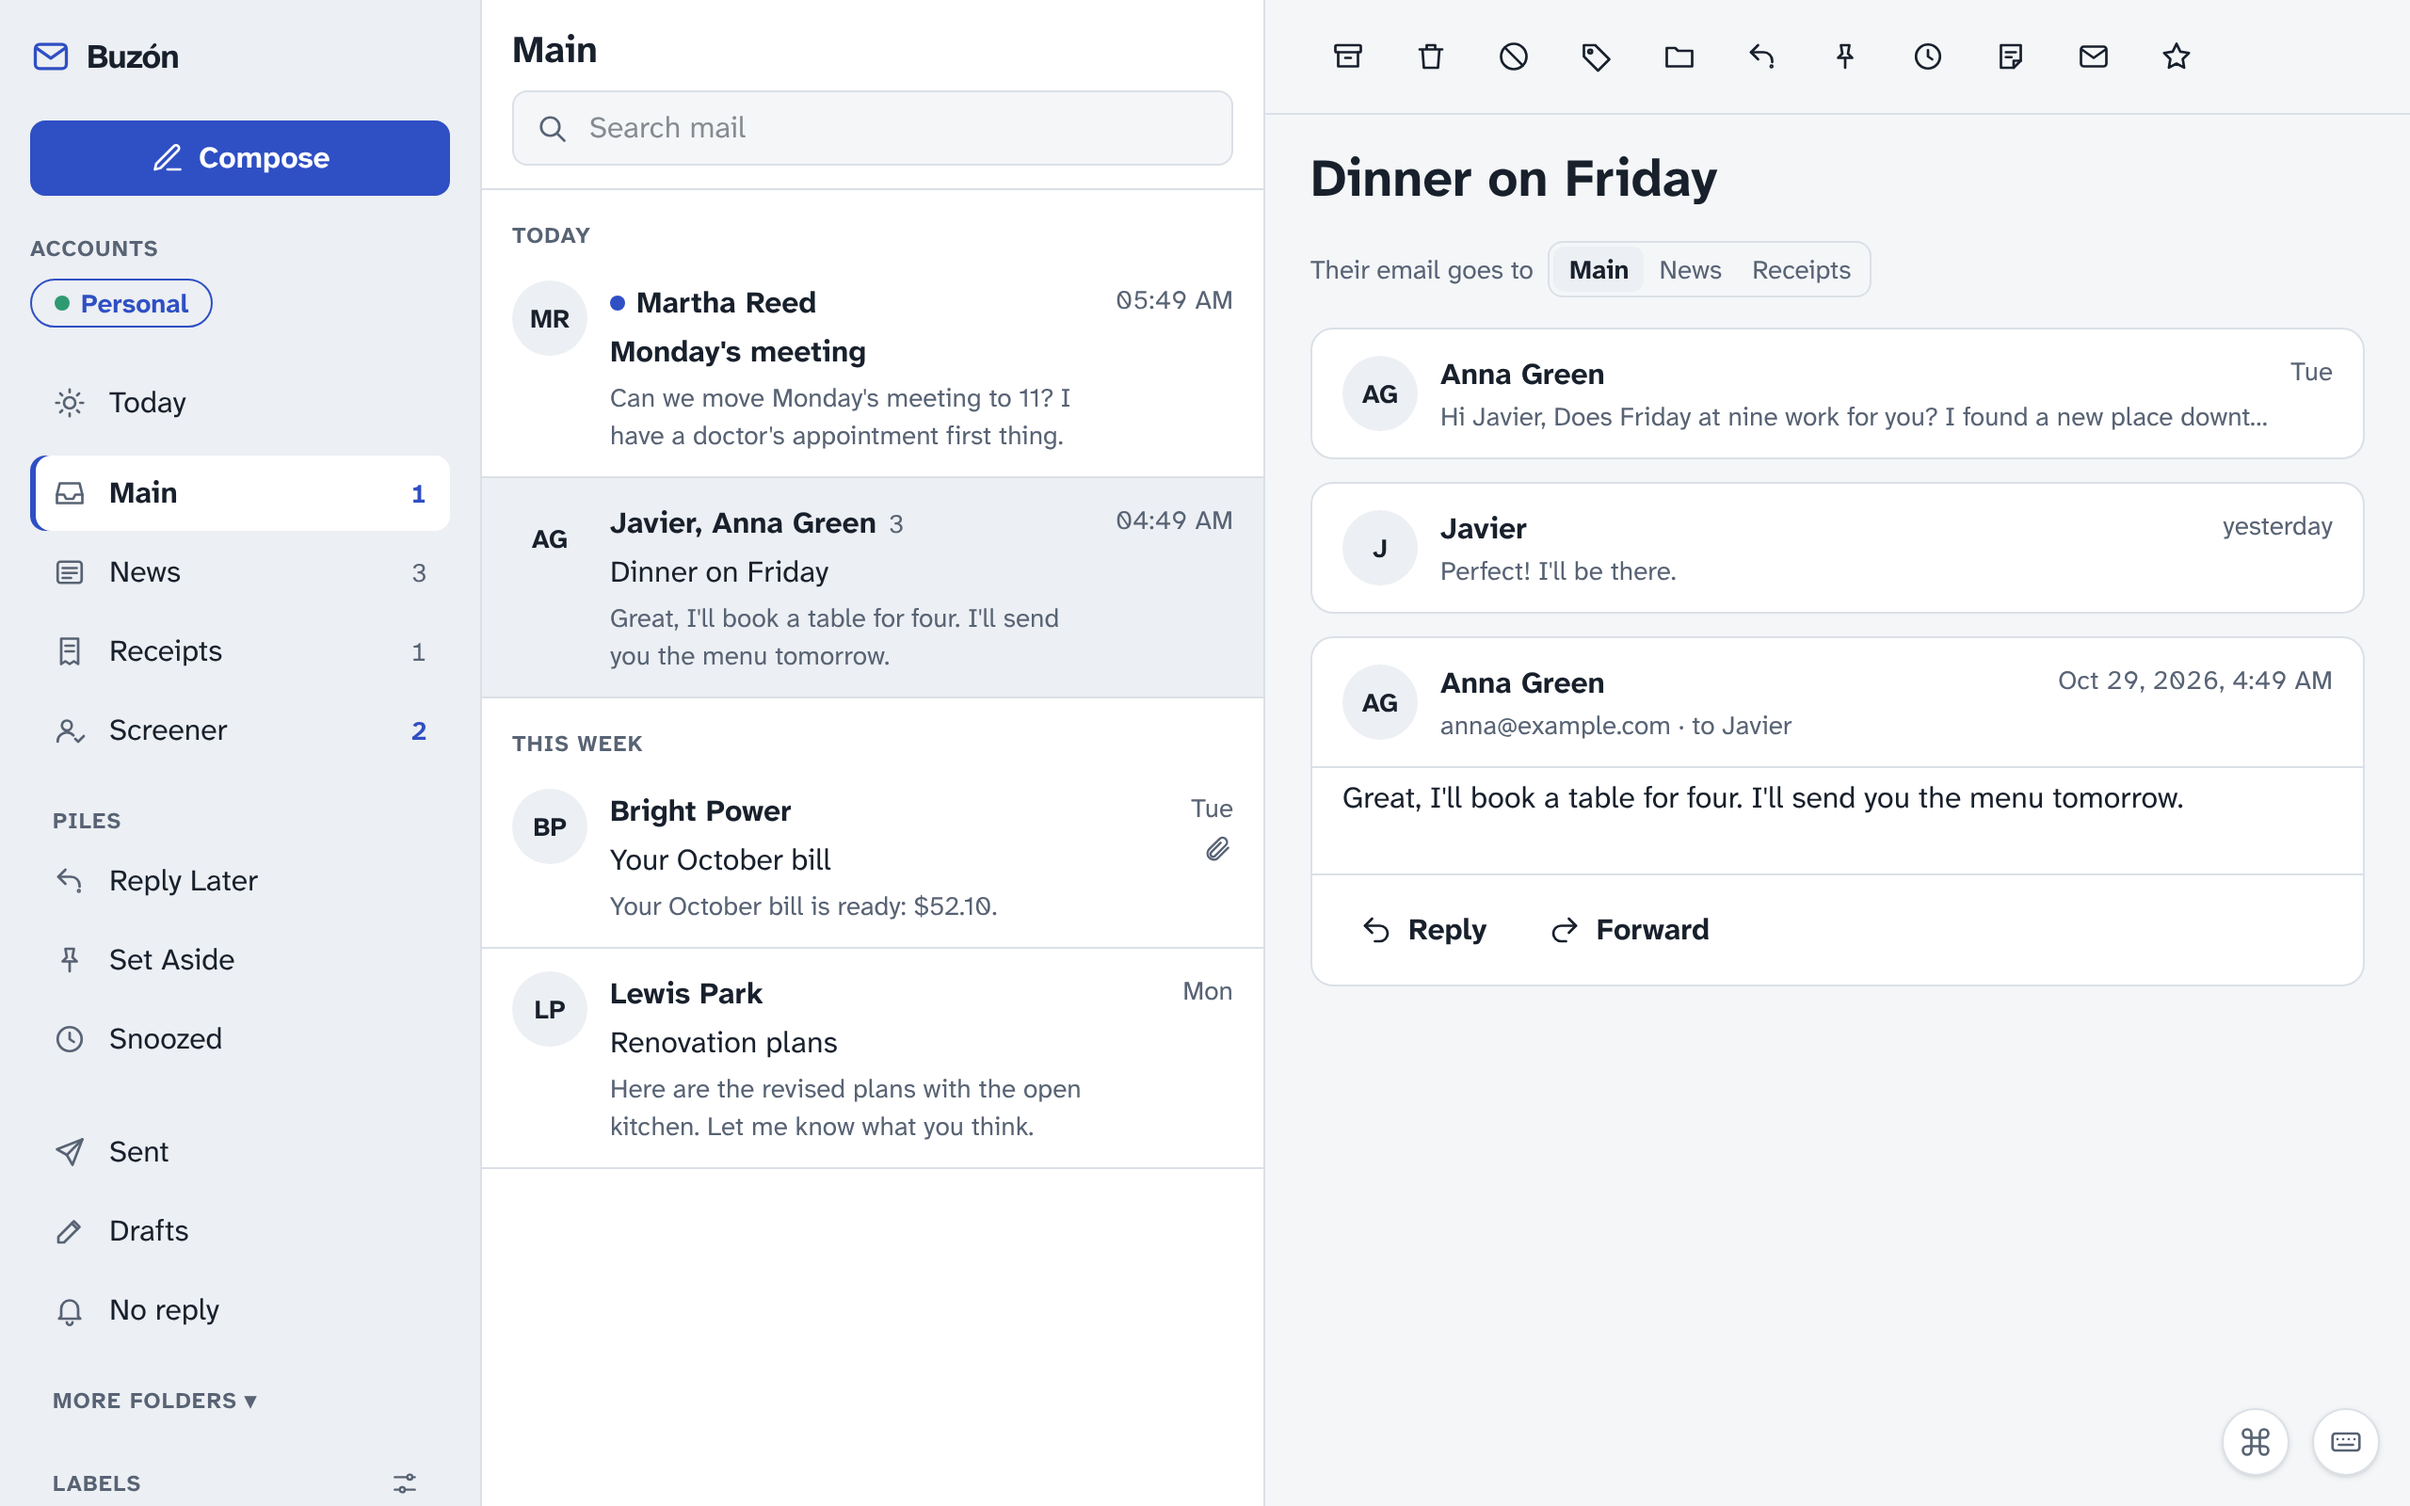
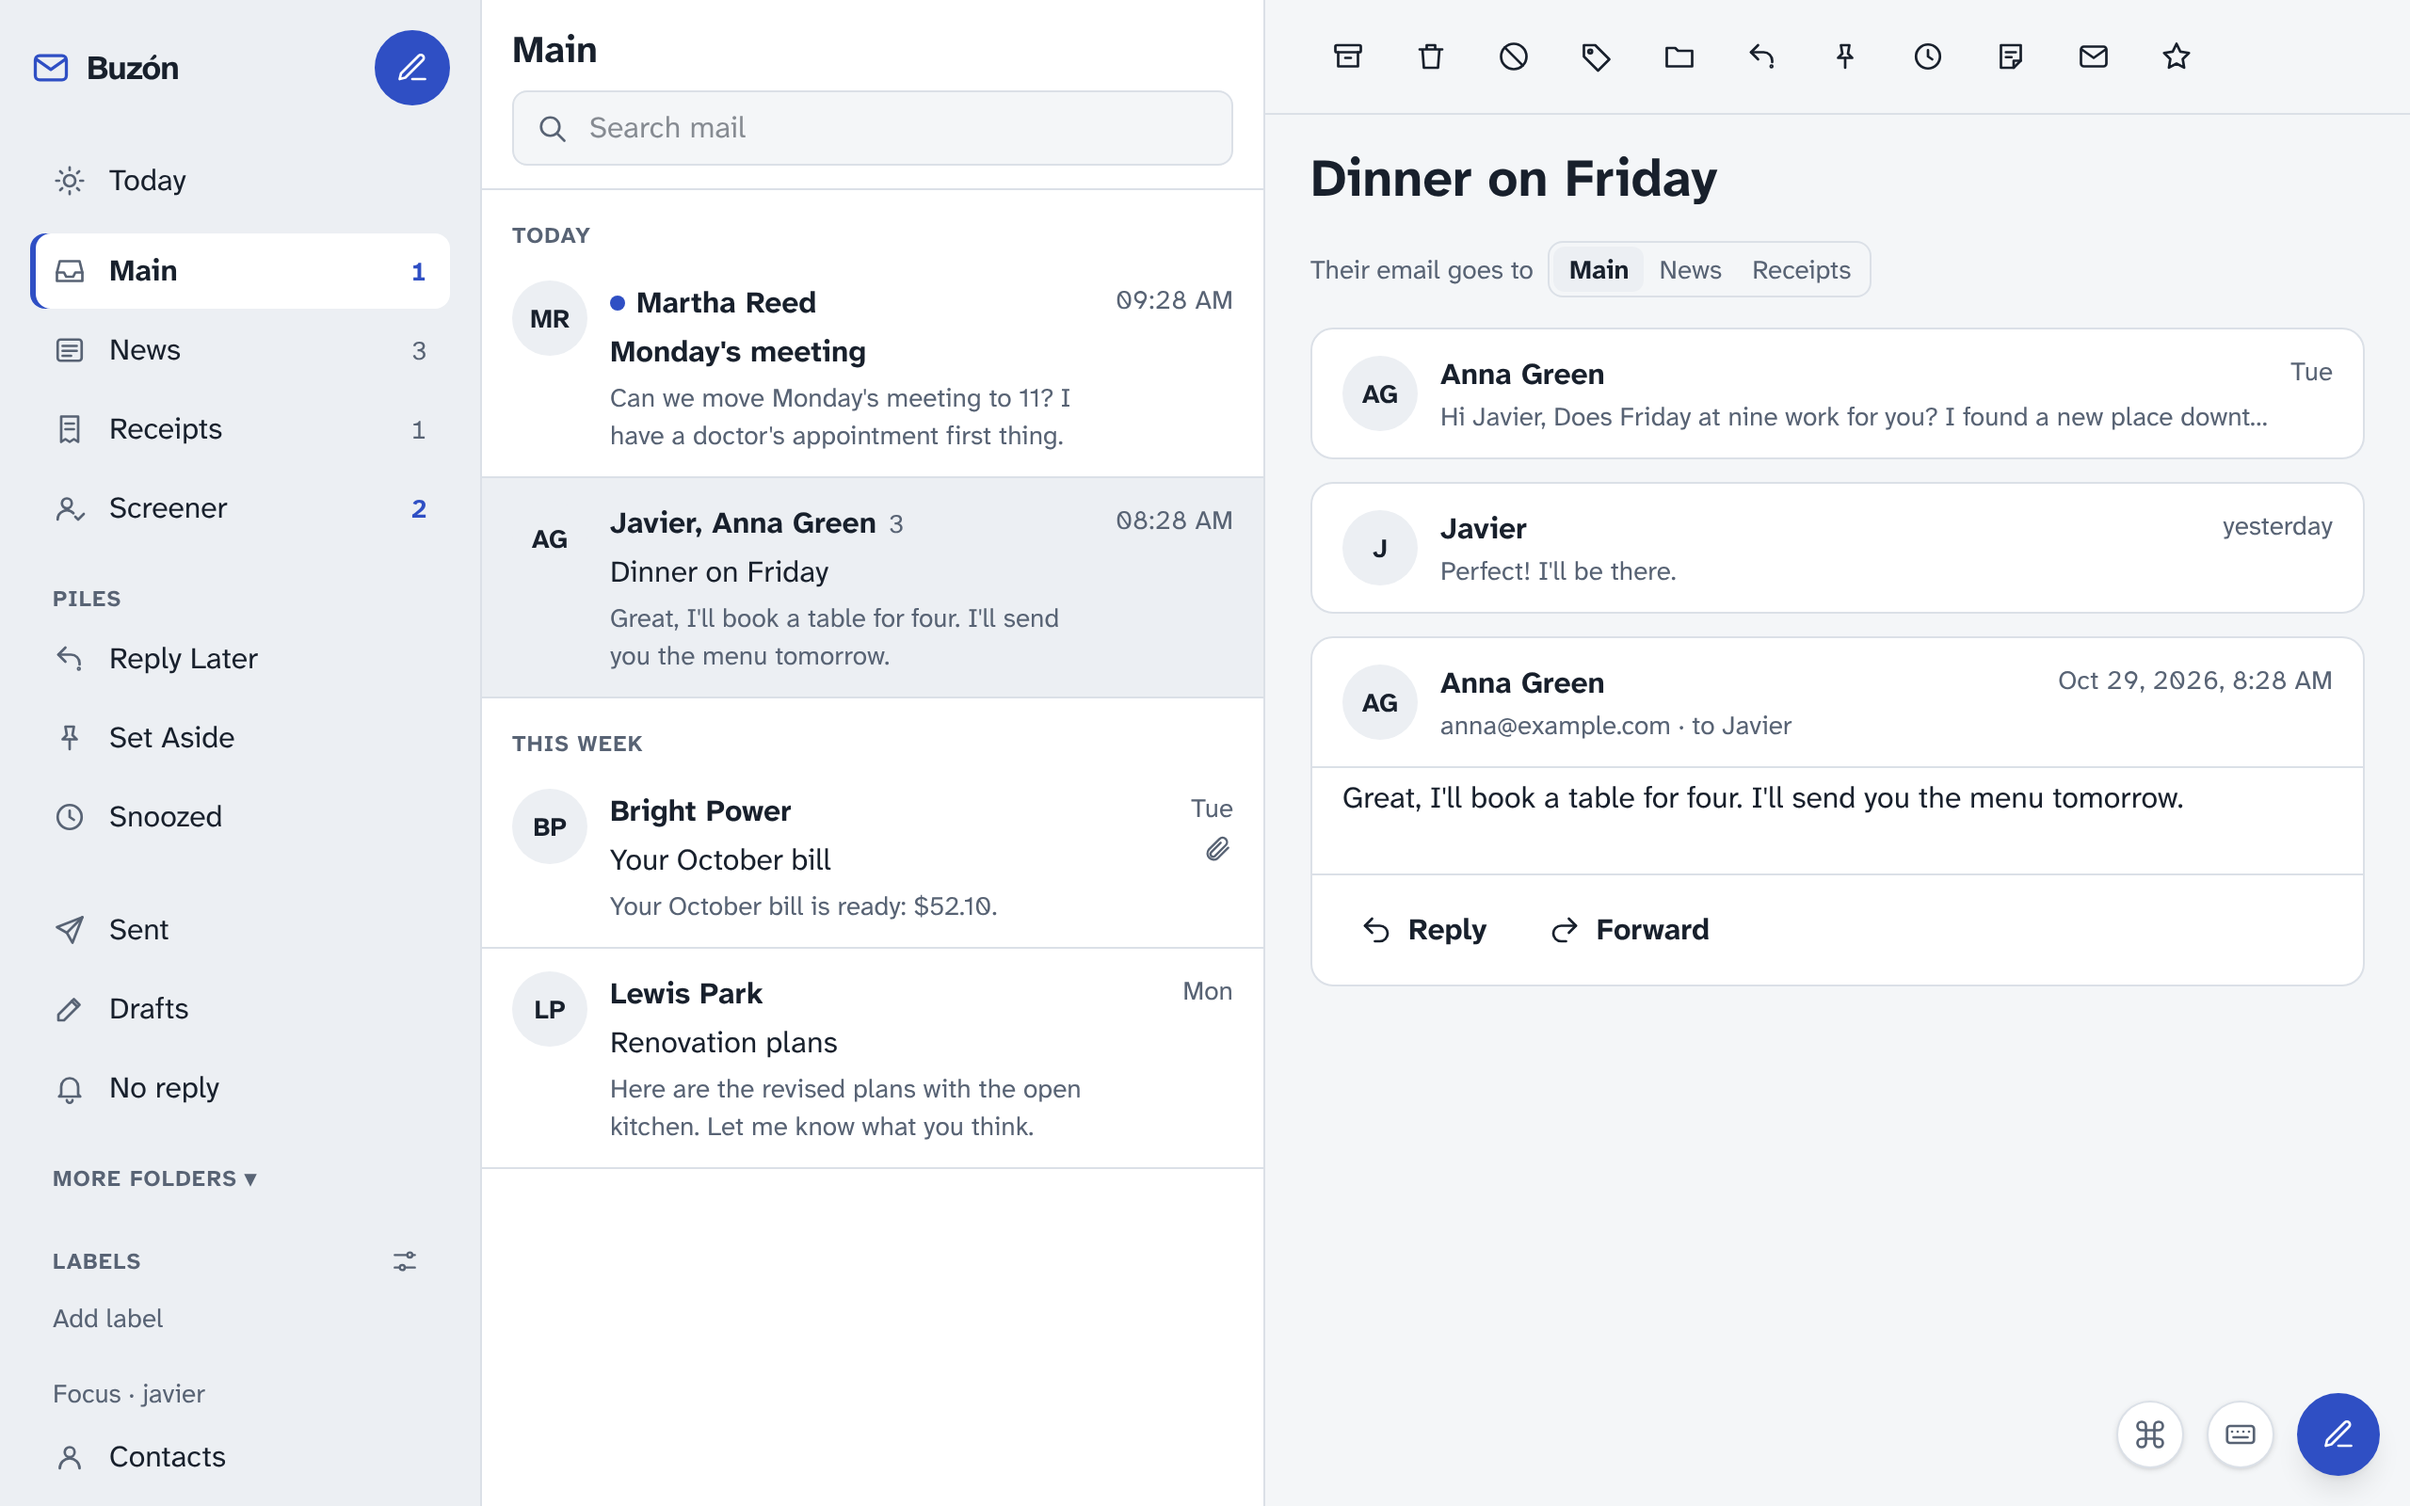
Manual: capturas regeneradas con la interfaz actual
Las 8 capturas de cada idioma muestran ya el botón redondo de
redactar y los ajustes nuevos. El texto de «Escribir» describe
dónde está el botón.

Claude-Session: https://claude.ai/code/session_01ERgmrTvHjgp8TtNE5g5P3U

diff --git a/docs/manual/escribir.md b/docs/manual/escribir.md
@@ -2,7 +2,7 @@
 
 ## Redactar un correo
 
-Pulsa **Redactar** (o <kbd>c</kbd>). Se abre una ventana con:
+Pulsa el botón redondo del lápiz **Redactar**, junto al logo o abajo a la derecha (o <kbd>c</kbd>). Se abre una ventana con:
 
 - **De:** la dirección desde la que envías, si tienes varias cuentas o identidades.
 - **Para, Cc y Cco:** escribe un nombre o una dirección; Buzón te sugiere tus contactos. Pulsa <kbd>Intro</kbd> o la coma para añadirla.

diff --git a/docs/manual/en/writing.md b/docs/manual/en/writing.md
@@ -2,7 +2,7 @@
 
 ## Composing an email
 
-Click **Compose** (or <kbd>c</kbd>). A window opens with:
+Click the round pencil button **Compose**, next to the logo or at the bottom right (or <kbd>c</kbd>). A window opens with:
 
 - **From:** the address you send from, if you have several accounts or identities.
 - **To, Cc and Bcc:** type a name or an address; Buzón suggests your contacts. Press <kbd>Enter</kbd> or a comma to add it.
